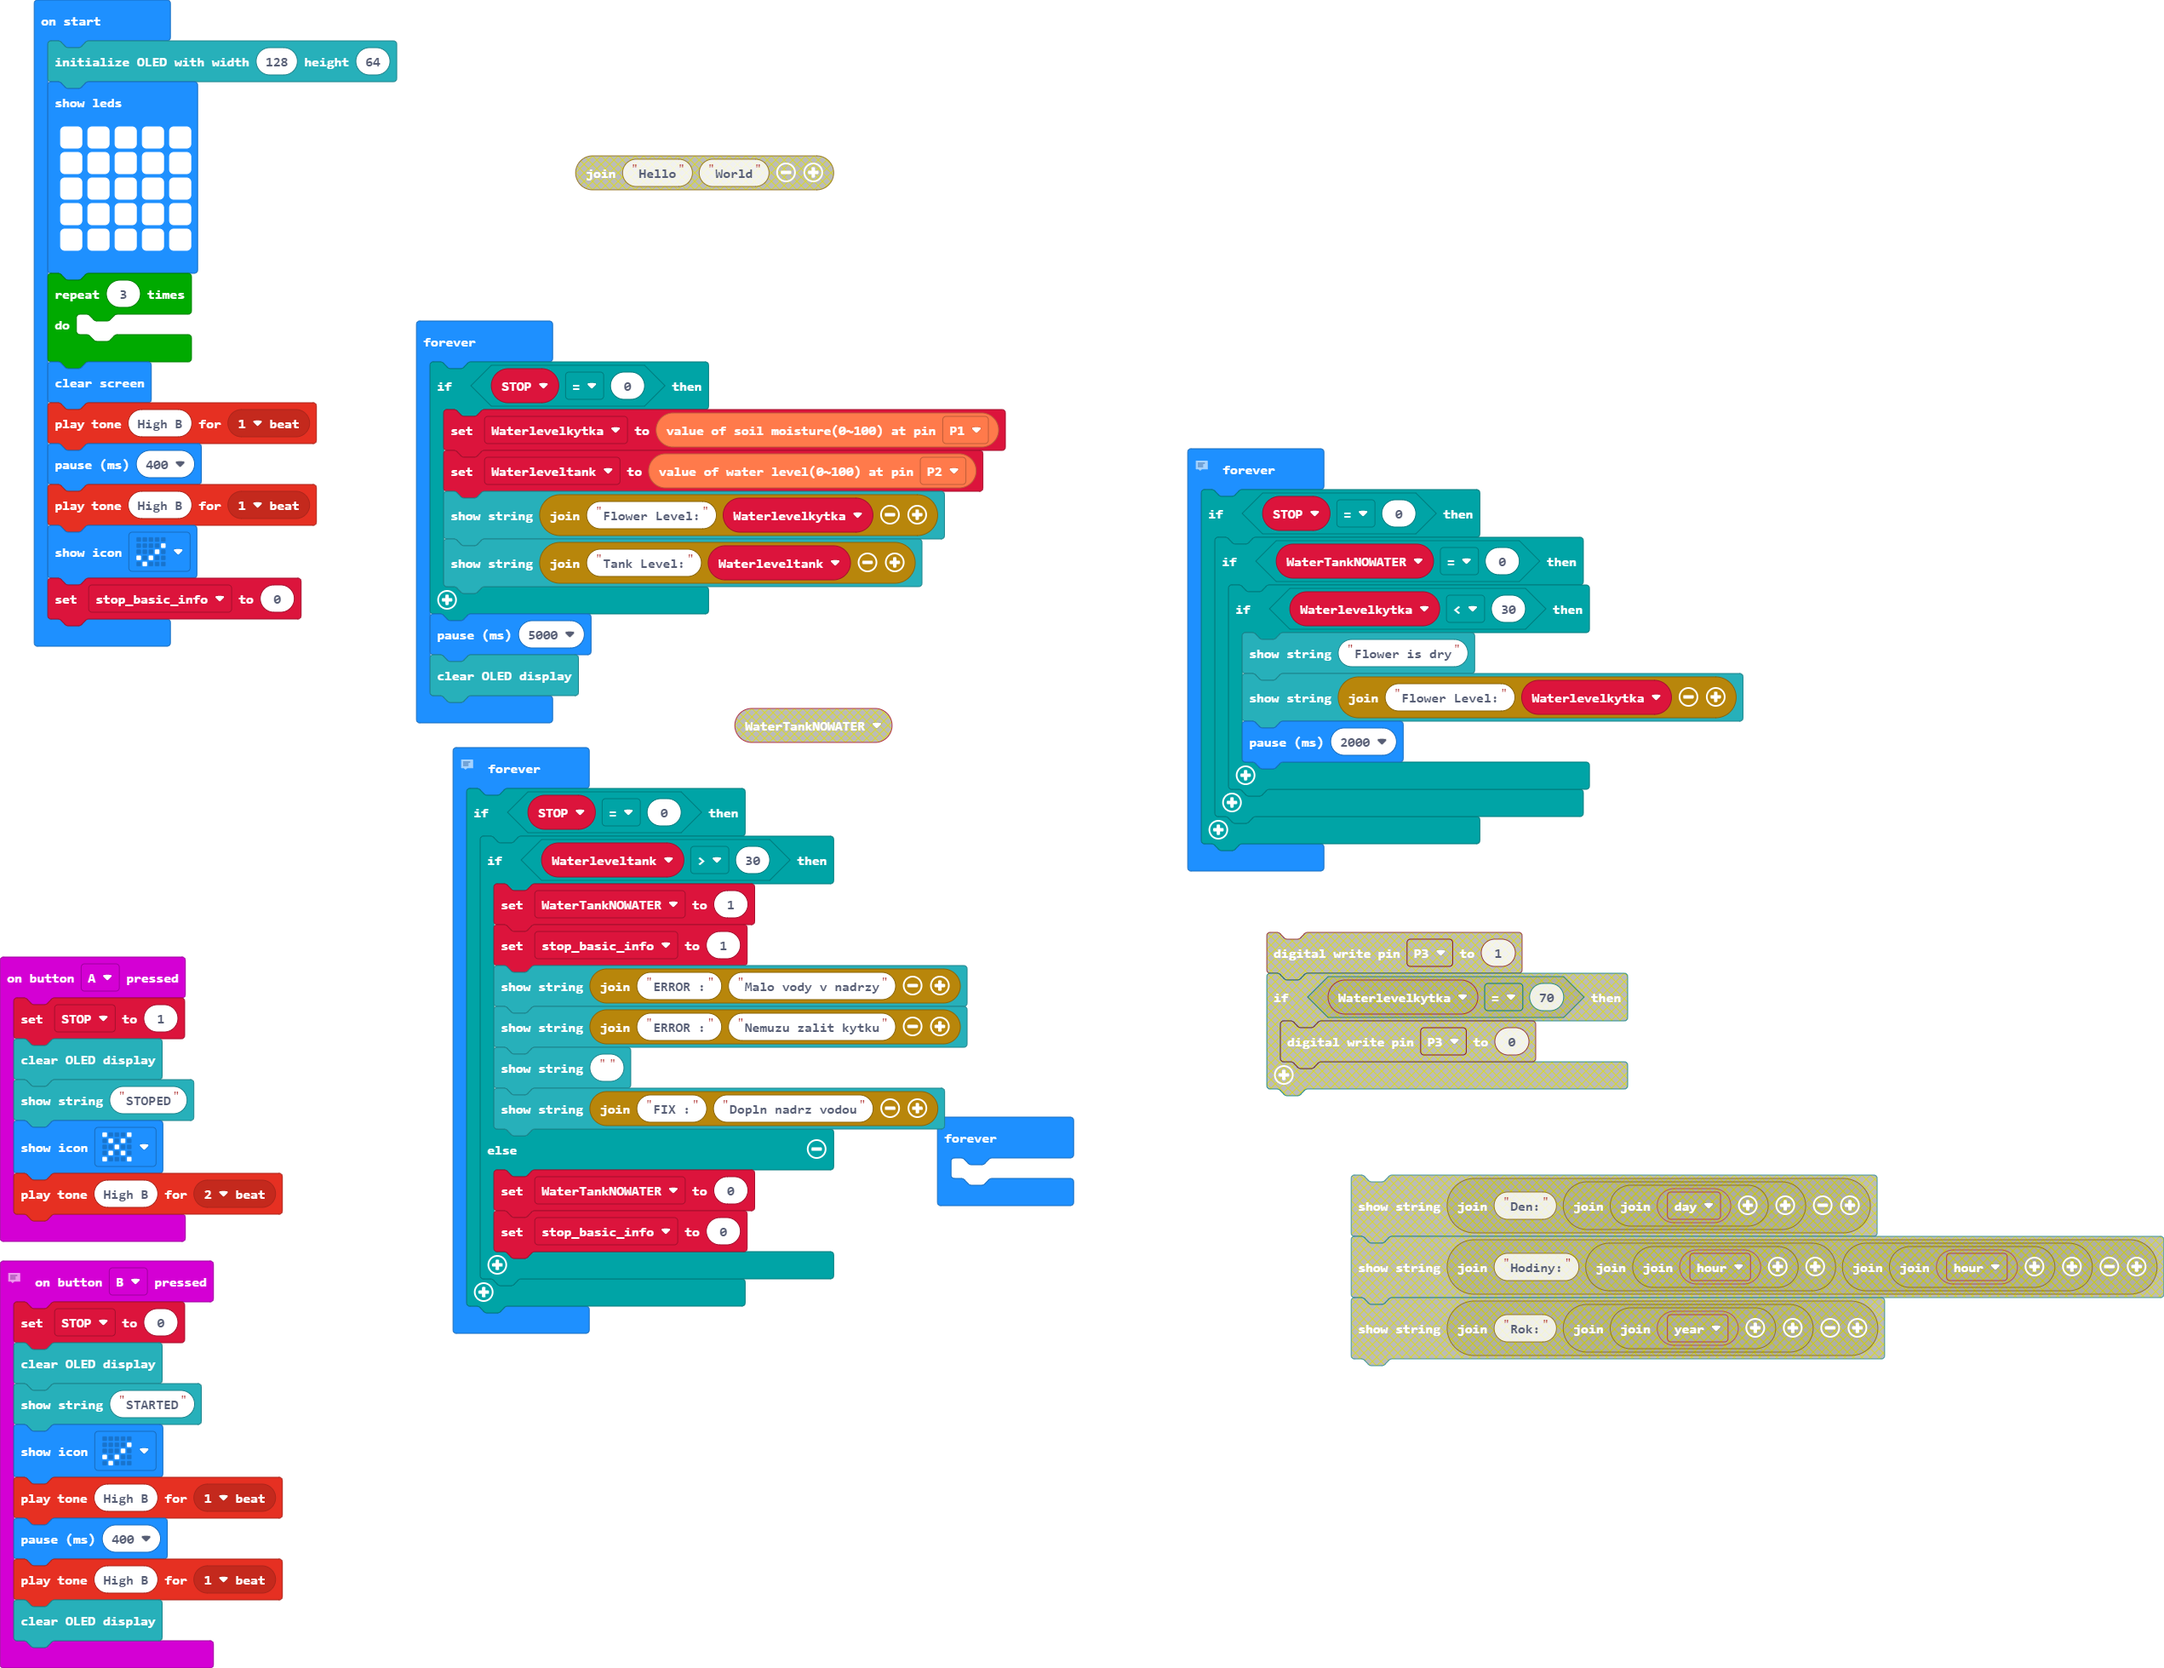
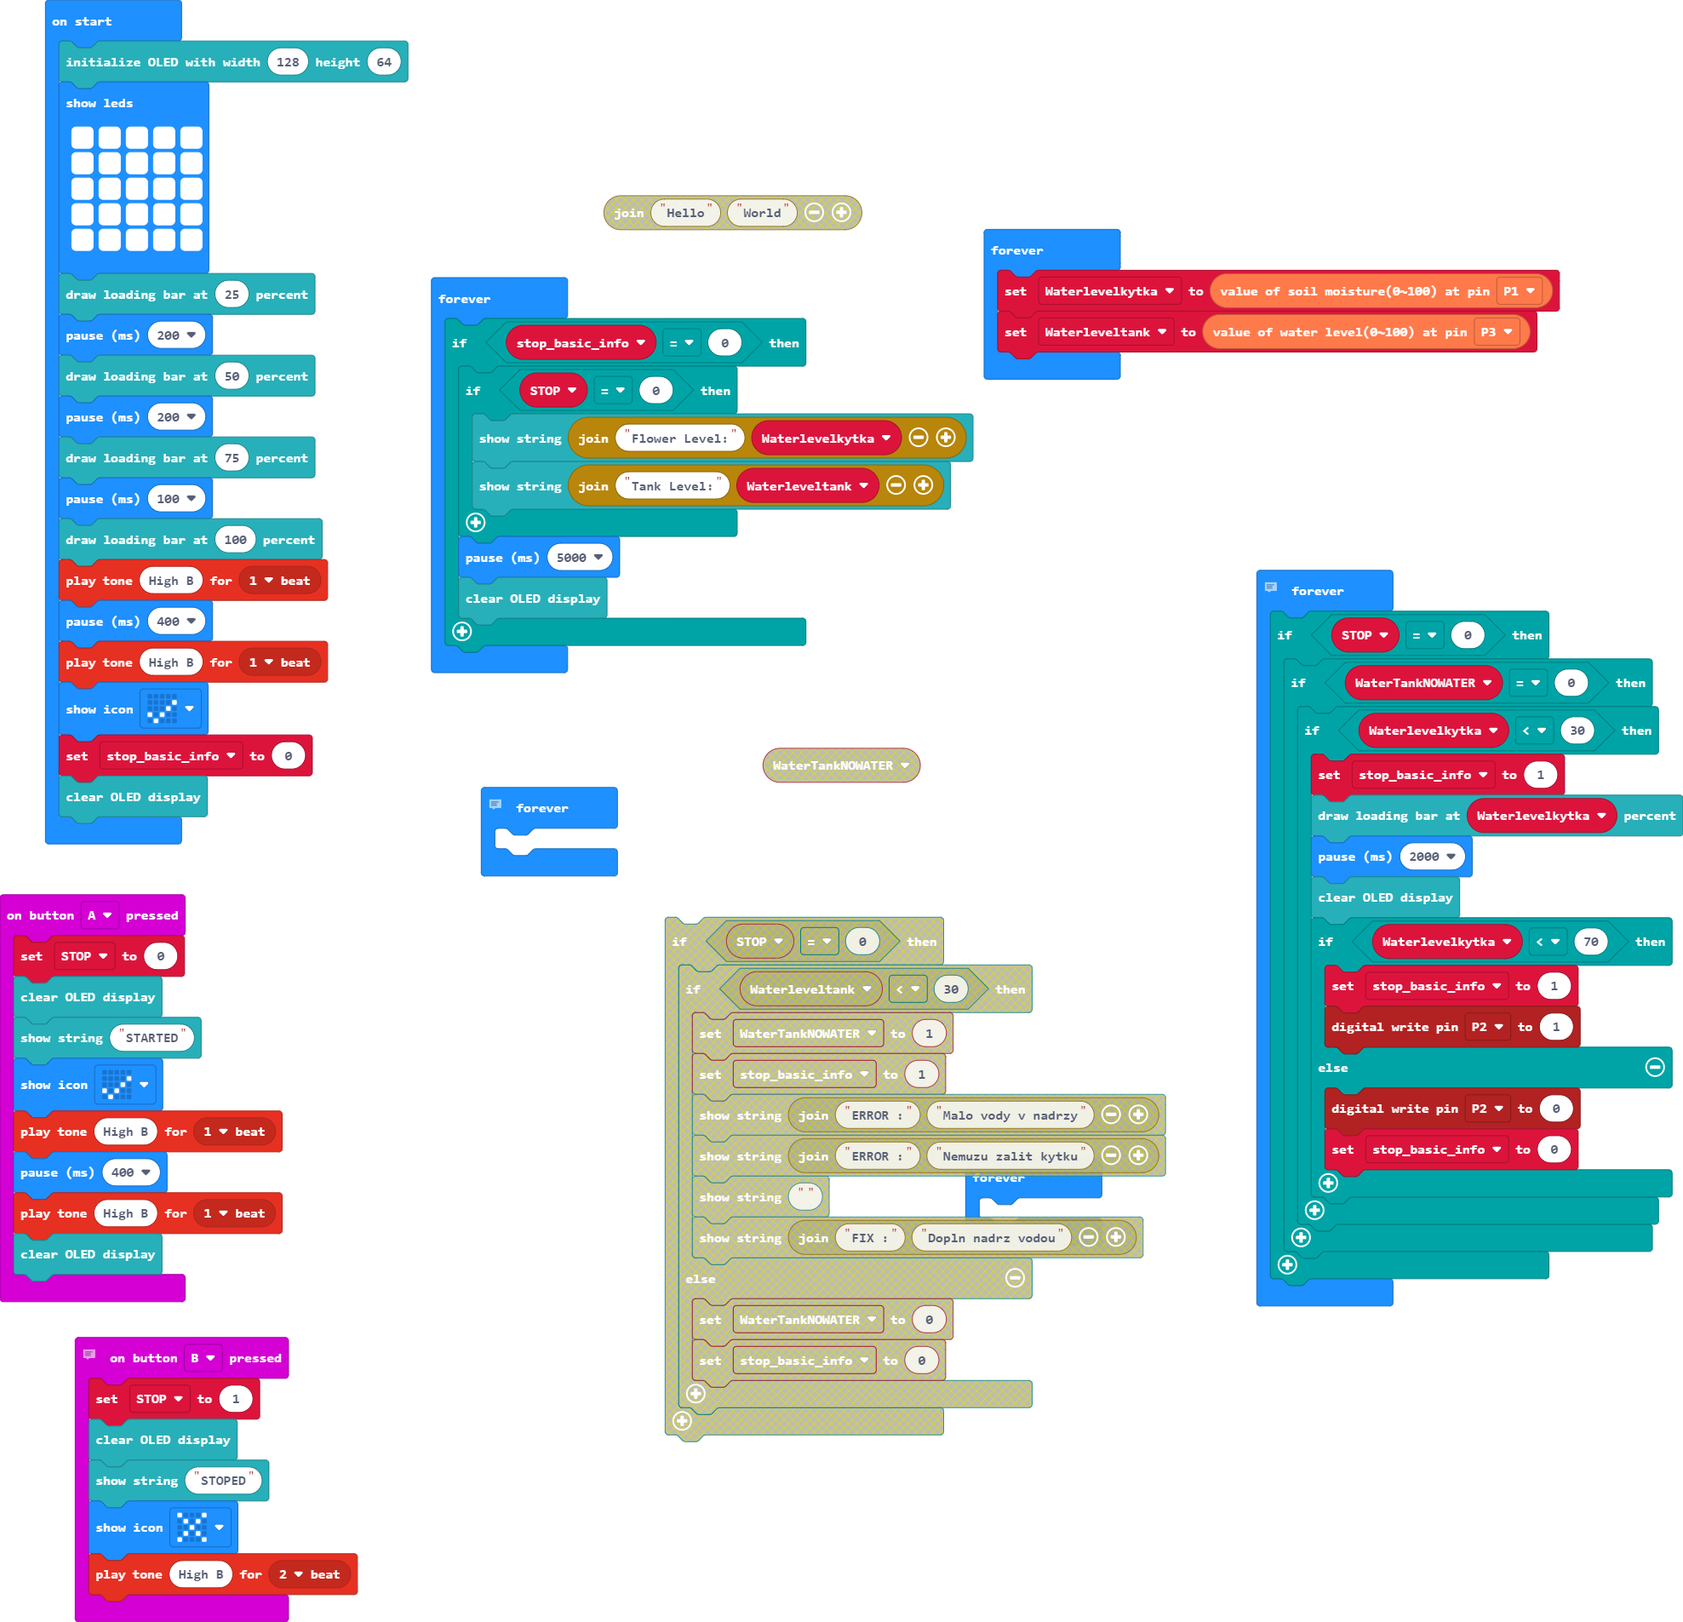
Update

diff --git a/main.ts b/main.ts
@@ -1,14 +1,4 @@
 input.onButtonPressed(Button.A, function () {
-    STOP = 1
-    OLED.clear()
-    OLED.writeStringNewLine("STOPED")
-    basic.showIcon(IconNames.No)
-    music.playTone(988, music.beat(BeatFraction.Double))
-})
-// Po zmáčknutí A+B
-// 
-// Se všechno zastaví
-input.onButtonPressed(Button.B, function () {
     STOP = 0
     OLED.clear()
     OLED.writeStringNewLine("STARTED")
@@ -18,7 +8,16 @@ input.onButtonPressed(Button.B, function () {
     music.playTone(988, music.beat(BeatFraction.Whole))
     OLED.clear()
 })
-let WaterTankNOWATER = 0
+// Po zmáčknutí A+B
+// 
+// Se všechno zastaví
+input.onButtonPressed(Button.B, function () {
+    STOP = 1
+    OLED.clear()
+    OLED.writeStringNewLine("STOPED")
+    basic.showIcon(IconNames.No)
+    music.playTone(988, music.beat(BeatFraction.Double))
+})
 let Waterleveltank = 0
 let Waterlevelkytka = 0
 let STOP = 0
@@ -30,35 +29,52 @@ basic.showLeds(`
     # # # # #
     # # # # #
     `)
-for (let index = 0; index < 3; index++) {
-	
-}
-basic.clearScreen()
+OLED.drawLoading(25)
+basic.pause(200)
+OLED.drawLoading(50)
+basic.pause(200)
+OLED.drawLoading(75)
+basic.pause(100)
+OLED.drawLoading(100)
 music.playTone(988, music.beat(BeatFraction.Whole))
 basic.pause(400)
 music.playTone(988, music.beat(BeatFraction.Whole))
 basic.showIcon(IconNames.Yes)
 let stop_basic_info = 0
+OLED.clear()
 basic.forever(function () {
-    if (STOP == 0) {
-        Waterlevelkytka = Environment.ReadSoilHumidity(AnalogPin.P1)
-        Waterleveltank = Environment.ReadWaterLevel(AnalogPin.P2)
-        OLED.writeStringNewLine("Flower Level:" + Waterlevelkytka)
-        OLED.writeStringNewLine("Tank Level:" + Waterleveltank)
+    Waterlevelkytka = Environment.ReadSoilHumidity(AnalogPin.P1)
+    Waterleveltank = Environment.ReadWaterLevel(AnalogPin.P3)
+})
+basic.forever(function () {
+    if (stop_basic_info == 0) {
+        if (STOP == 0) {
+            OLED.writeStringNewLine("Flower Level:" + Waterlevelkytka)
+            OLED.writeStringNewLine("Tank Level:" + Waterleveltank)
+        }
+        basic.pause(5000)
+        OLED.clear()
     }
-    basic.pause(5000)
-    OLED.clear()
 })
 // Když je "WaterTankNOWATER" "0" tak se spustí další command když je "Waterlevelkytka" ">30"
 // 
 // tak se zobrazí text flower is dry a čerpadlo pustí vodu dokud vlhkost pudy nebude 70%
 basic.forever(function () {
     if (STOP == 0) {
+        let WaterTankNOWATER = 0
         if (WaterTankNOWATER == 0) {
             if (Waterlevelkytka < 30) {
-                OLED.writeStringNewLine("Flower is dry")
-                OLED.writeStringNewLine("Flower Level:" + Waterlevelkytka)
+                stop_basic_info = 1
+                OLED.drawLoading(Waterlevelkytka)
                 basic.pause(2000)
+                OLED.clear()
+                if (Waterlevelkytka < 70) {
+                    stop_basic_info = 1
+                    pins.digitalWritePin(DigitalPin.P2, 1)
+                } else {
+                    pins.digitalWritePin(DigitalPin.P2, 0)
+                    stop_basic_info = 0
+                }
             }
         }
     }
@@ -77,19 +93,7 @@ basic.forever(function () {
 // 
 // když
 basic.forever(function () {
-    if (STOP == 0) {
-        if (Waterleveltank > 30) {
-            WaterTankNOWATER = 1
-            stop_basic_info = 1
-            OLED.writeStringNewLine("ERROR :" + "Malo vody v nadrzy")
-            OLED.writeStringNewLine("ERROR :" + "Nemuzu zalit kytku")
-            OLED.writeStringNewLine("")
-            OLED.writeStringNewLine("FIX :" + "Dopln nadrz vodou")
-        } else {
-            WaterTankNOWATER = 0
-            stop_basic_info = 0
-        }
-    }
+	
 })
 basic.forever(function () {
 	
